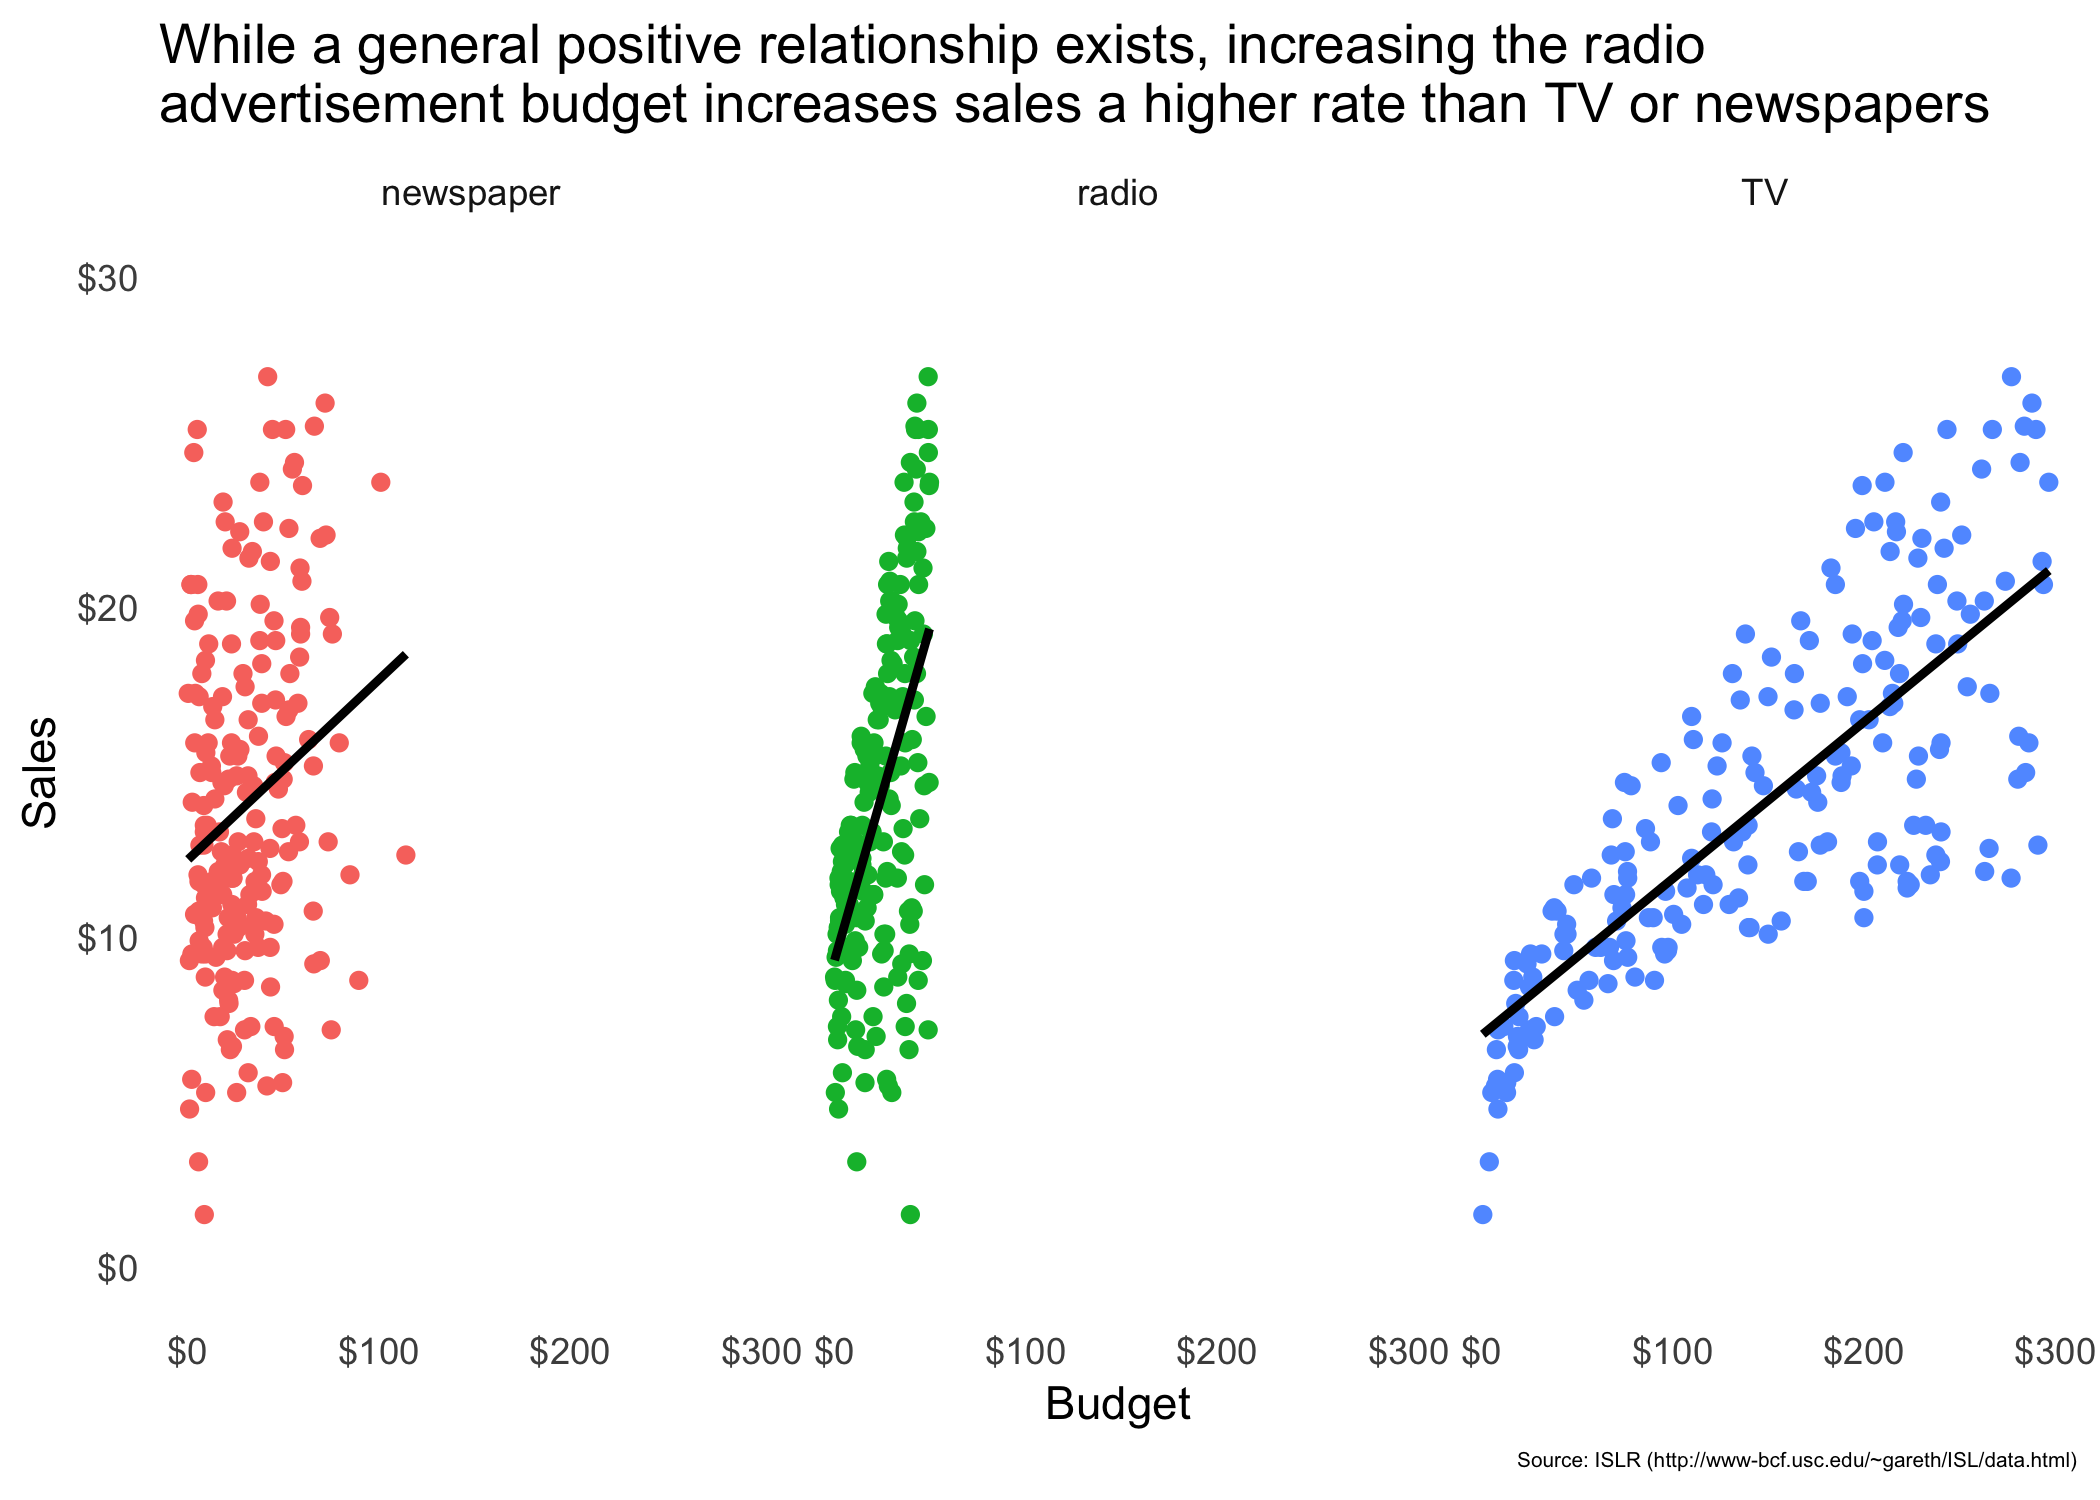
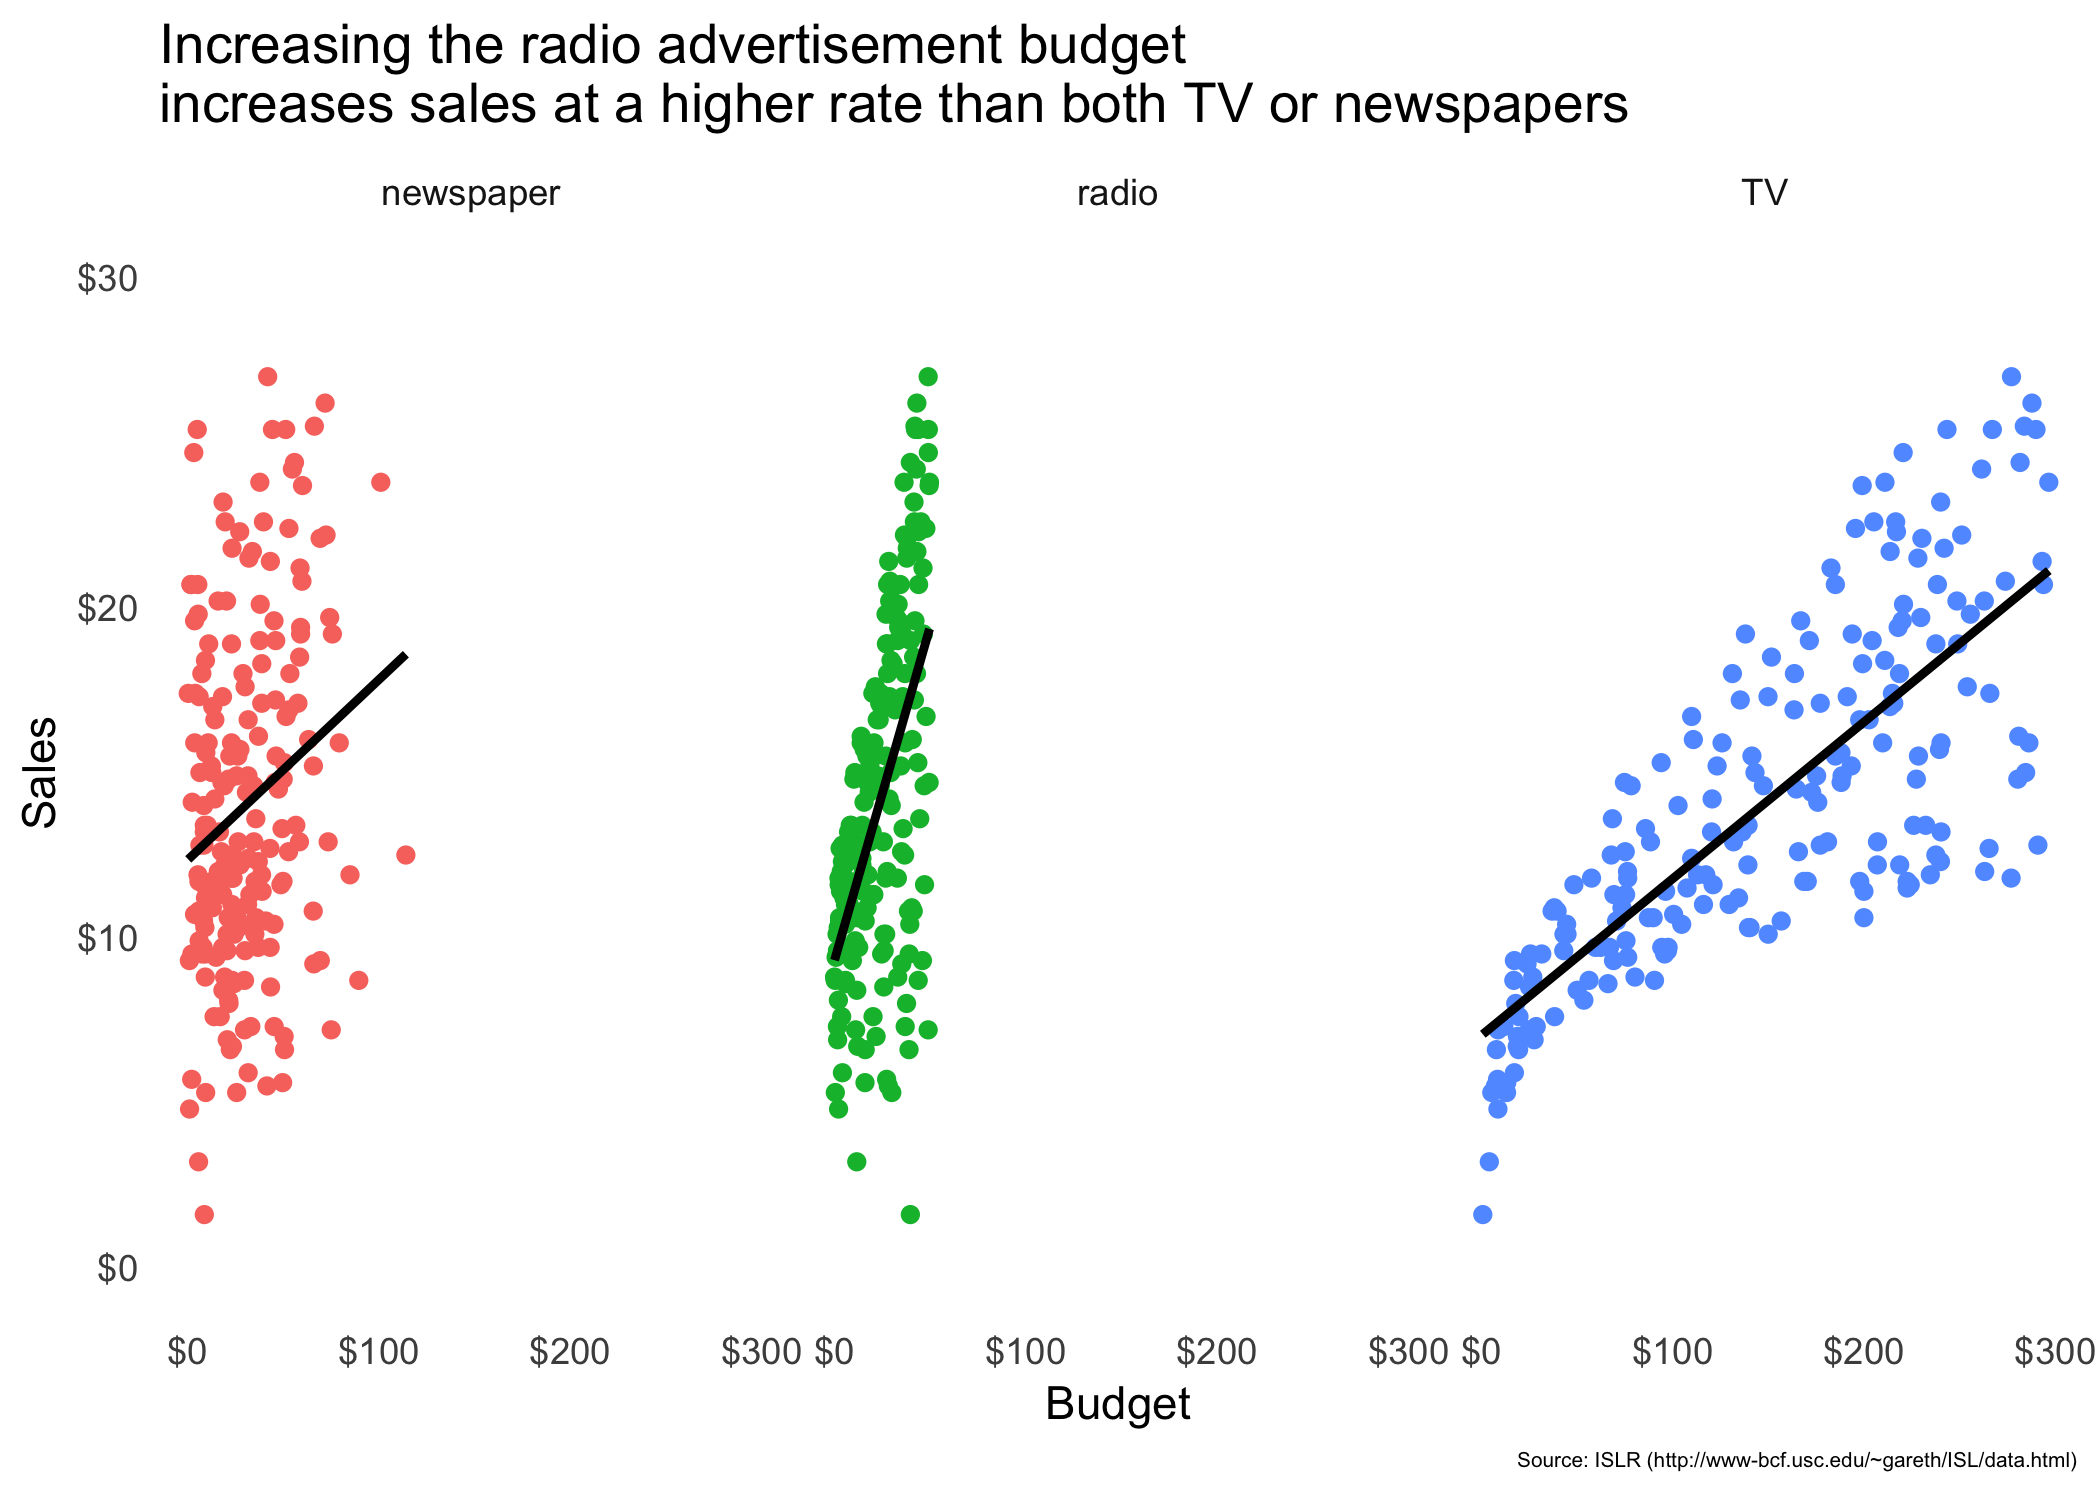
Fixed plot title.

Changed region(s): [[0.0619, 0.0, 0.9595, 0.092]]

diff --git a/02_statistical_learning/README.md b/02_statistical_learning/README.md
@@ -59,7 +59,7 @@ df.tidy %>%
                      , labels = dollar
                      , limits = c(0, 30)) +
   facet_wrap(facets = vars(type)) +
-  labs(title = "While a general positive relationship exists, increasing the radio\nadvertisement budget increases sales a higher rate than TV or newspapers"
+  labs(title = "Increasing the radio advertisement budget\nincreases sales at a higher rate than both TV or newspapers"
        , caption = advertising.text) +
   my.theme
 ```
